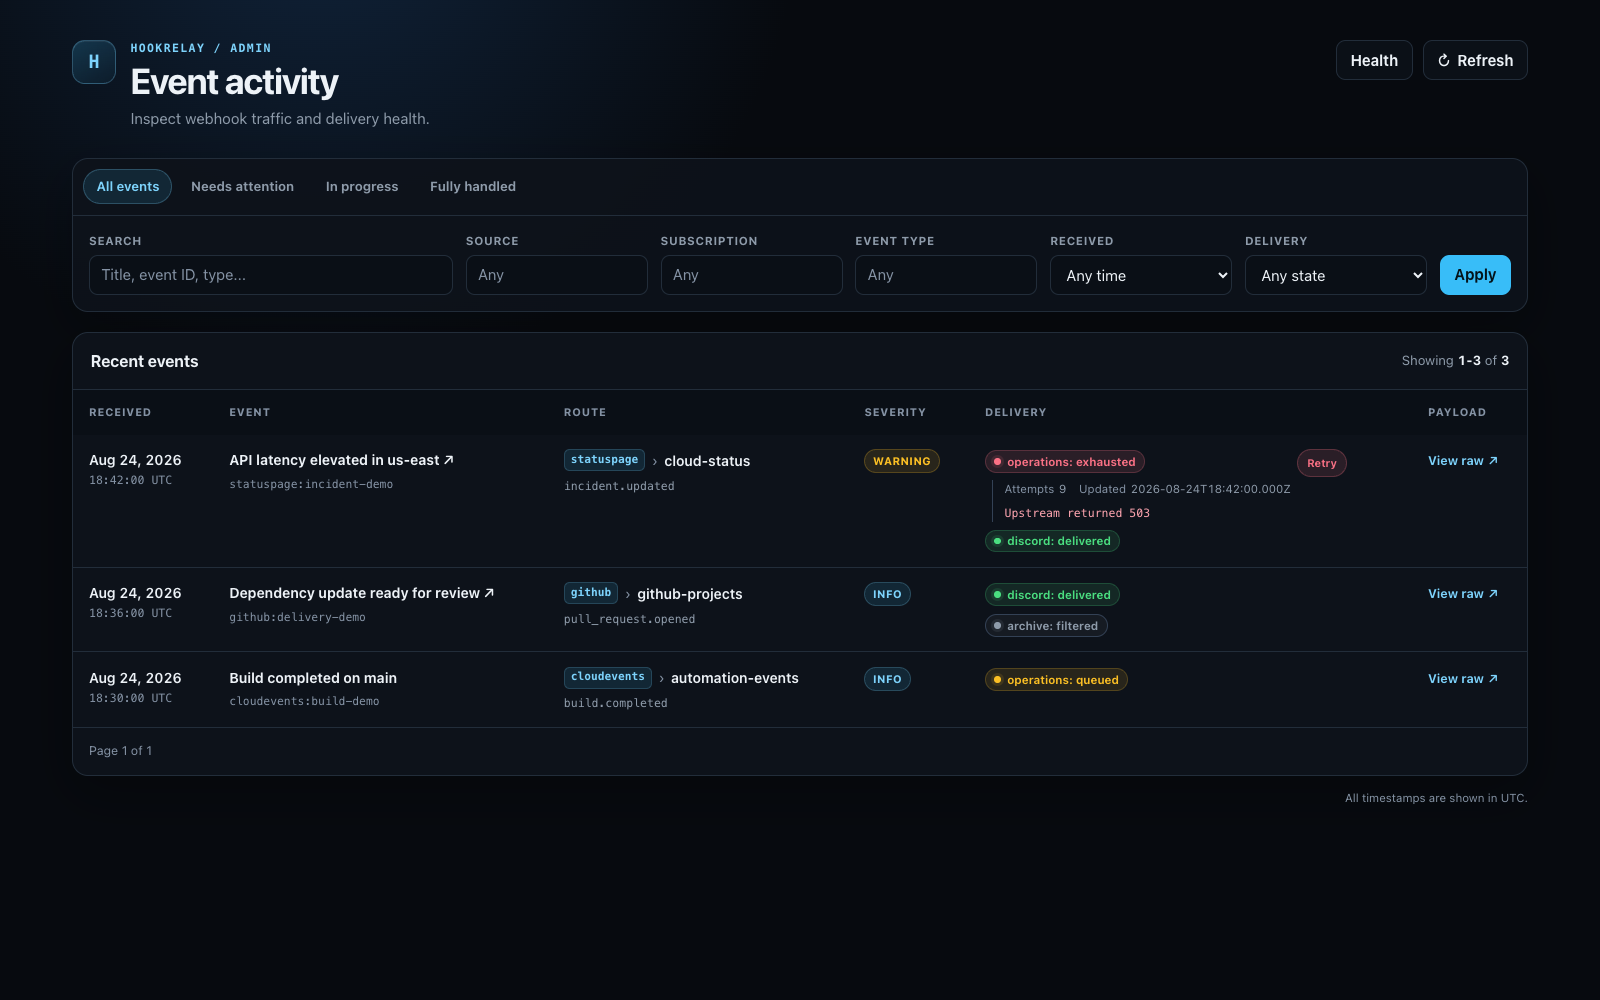
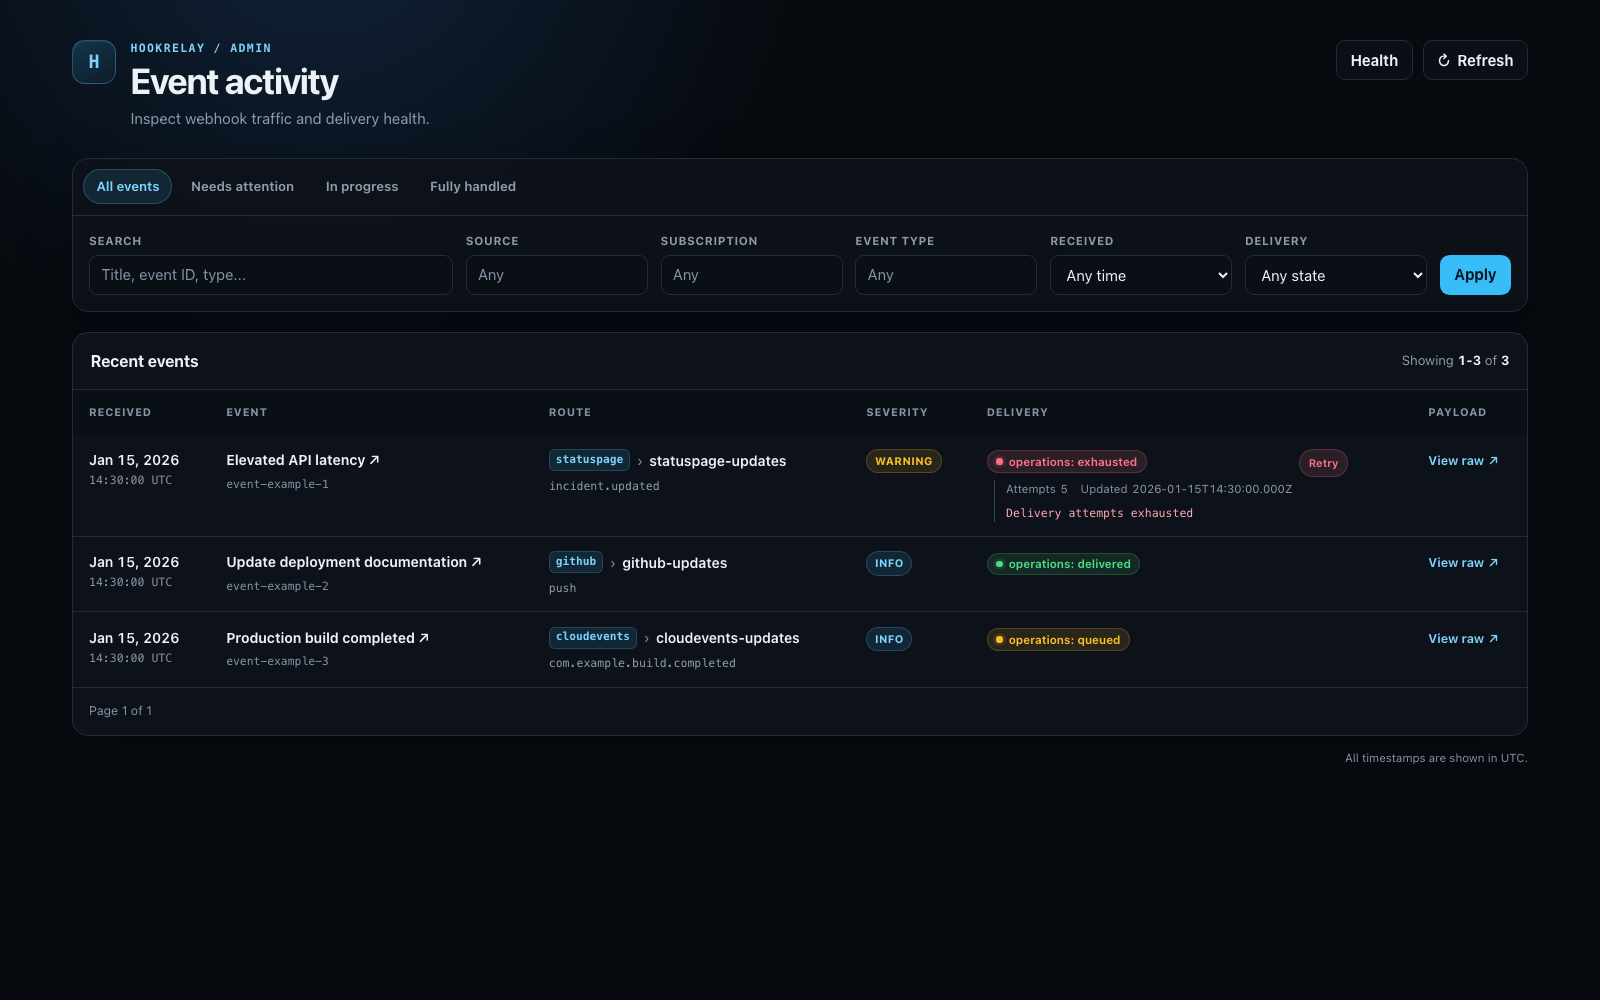
build: automate project cover generation

diff --git a/README.md b/README.md
@@ -617,6 +617,10 @@ Key runtime files:
 - `src/fanout.ts` – validation and dispatch for one sink attempt
 - `src/registry.ts` – the only place where adapters and sinks are wired in
 
+## Project cover automation
+
+The cover renders the actual admin event handler and styles against an in-memory event/delivery fixture. It uses no operator configuration, remote database, or live webhook content. Install the capture tooling with `npm ci --prefix tools/cover` and `npm exec --prefix tools/cover -- playwright install chromium`, then run `npm run capture:cover`. Use `-- --output FILE` to write a review image elsewhere. CI captures during source verification and retains the image as an artifact. Successful main builds publish a changed `docs/screenshots/cover.png` with an image-only commit; pull requests render without publishing, and superseded revisions skip publication.
+
 ## License
 
 MIT. See LICENSE.
